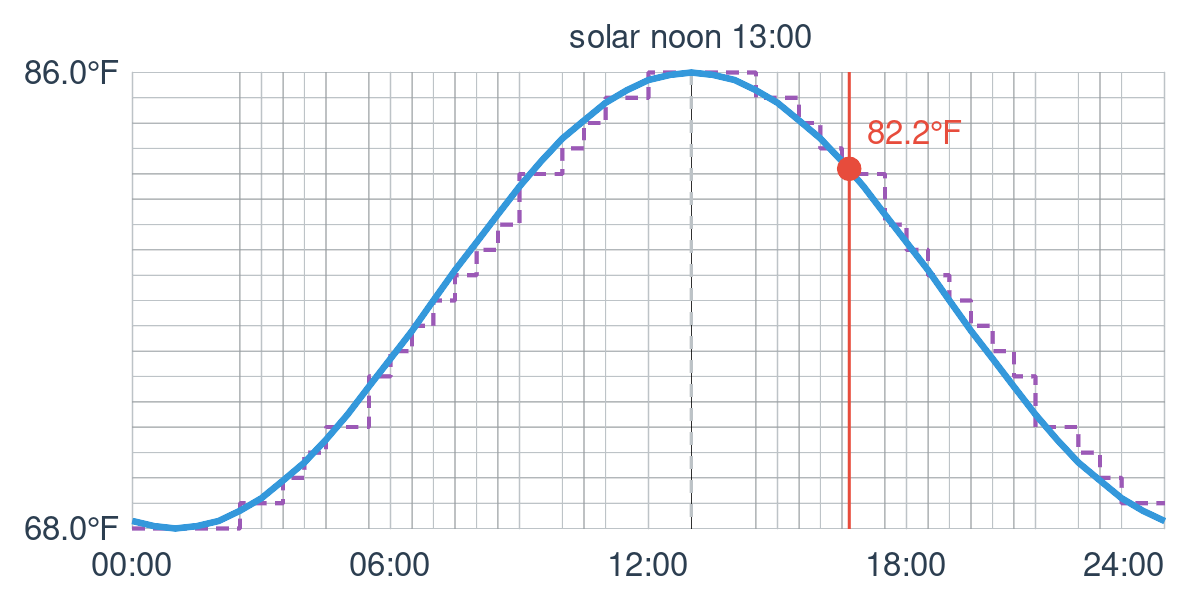
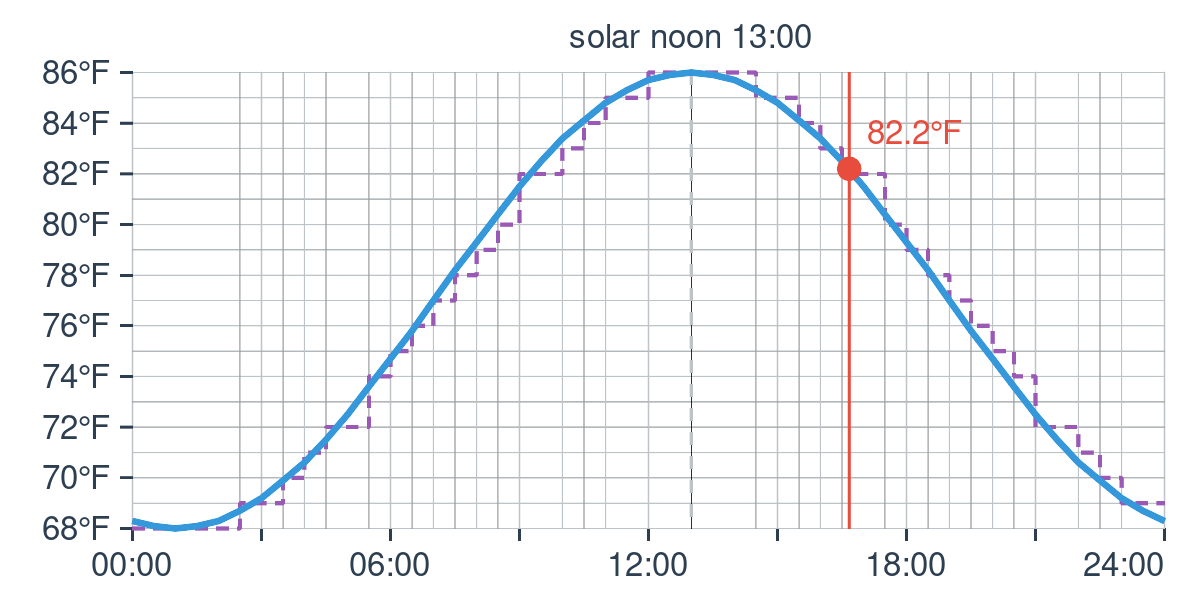
🤖 Chart: outside tick marks and labelled temperatures
- Tick marks outside the bottom edge every 3 hours, and outside the left
  edge at each labelled temperature.
- Temperature labels every nice step (1, 2, 5, 10, 20 or 50), in whole
  numbers, instead of just the high and low.
- Image tests check the whole-number labels.
- Regenerated docs/images/chart.png.

Claude-Session: https://claude.ai/code/session_016WRmGZvwJTKGjtK7asqVVU

diff --git a/custom_components/daily_temperature_wave/chart.py b/custom_components/daily_temperature_wave/chart.py
@@ -29,6 +29,15 @@ def _hour_of_day(moment: datetime, midnight: datetime) -> float:
     return (moment.timestamp() - midnight.timestamp()) / 3600
 
 
+def _labelled_temps(low: float, high: float) -> list[float]:
+    """Round temperatures in ``low``..``high``, every nice step (at most ~10)."""
+    span = high - low
+    step = next((s for s in (1, 2, 5, 10, 20, 50) if span / s <= 10), 50)
+    first = math.ceil(low / step) * step
+    count = math.floor(high / step) - math.ceil(low / step) + 1
+    return [first + i * step for i in range(max(count, 0))]
+
+
 def render_svg(state: WaveState, convert: Callable[[float], float], unit: str) -> str:
     """Draw today (midnight to midnight): the wave, its steps, solar noon and now.
 
@@ -69,6 +78,10 @@ def render_svg(state: WaveState, convert: Callable[[float], float], unit: str) -
         parts.append(
             f'<line x1="{hx}" y1="{TOP}" x2="{hx}" y2="{HEIGHT - BOTTOM}" '
             f'stroke="{GRID_COLOR}" stroke-width="0.5"/>'
+            # a tick just outside the bottom edge
+            f'<line x1="{hx}" y1="{HEIGHT - BOTTOM}" x2="{hx}" '
+            f'y2="{HEIGHT - BOTTOM + 4}" '
+            f'stroke="{TEXT_COLOR}" stroke-width="0.8"/>'
         )
         if hour % 6 == 0:
             anchor = "end" if hour == 24 else "middle"  # keep 24:00 inside the edge
@@ -90,11 +103,14 @@ def render_svg(state: WaveState, convert: Callable[[float], float], unit: str) -
             f'<line x1="{cx}" y1="{TOP}" x2="{cx}" y2="{HEIGHT - BOTTOM}" '
             f'stroke="{GRID_COLOR}" stroke-width="0.3"/>'
         )
-    # temperature labels: high and low
-    for temp in (high, low):
+    # temperature labels on the left, every nice step, with a tick outside
+    for temp in _labelled_temps(low, high):
+        ty = y(temp)
         parts.append(
-            f'<text x="{LEFT - 4}" y="{y(temp) + 4}" text-anchor="end" {FONT} '
-            f'fill="{TEXT_COLOR}">{temp:.1f}{unit}</text>'
+            f'<line x1="{LEFT - 4}" y1="{ty}" x2="{LEFT}" y2="{ty}" '
+            f'stroke="{TEXT_COLOR}" stroke-width="0.8"/>'
+            f'<text x="{LEFT - 7}" y="{ty + 4}" text-anchor="end" {FONT} '
+            f'fill="{TEXT_COLOR}">{temp:g}{unit}</text>'
         )
 
     # solar noon

diff --git a/tests/test_image.py b/tests/test_image.py
@@ -61,8 +61,8 @@ async def test_chart_image(
     assert svg.startswith("<svg")
     assert svg.endswith("</svg>")
     assert "solar noon 13:00" in svg
-    assert "30.0°C" in svg  # the high
-    assert "20.0°C" in svg  # the low
+    assert "30°C" in svg  # the high
+    assert "20°C" in svg  # the low
 
 
 async def test_chart_in_fahrenheit(
@@ -77,8 +77,8 @@ async def test_chart_in_fahrenheit(
 
     assert hass.states.get(CHART).attributes["points"][0]["temperature"] > 60
     svg = await _fetch(hass, hass_client_no_auth)
-    assert "86.0°F" in svg
-    assert "68.0°F" in svg
+    assert "86°F" in svg
+    assert "68°F" in svg
 
 
 async def test_chart_redraws_every_five_minutes(
